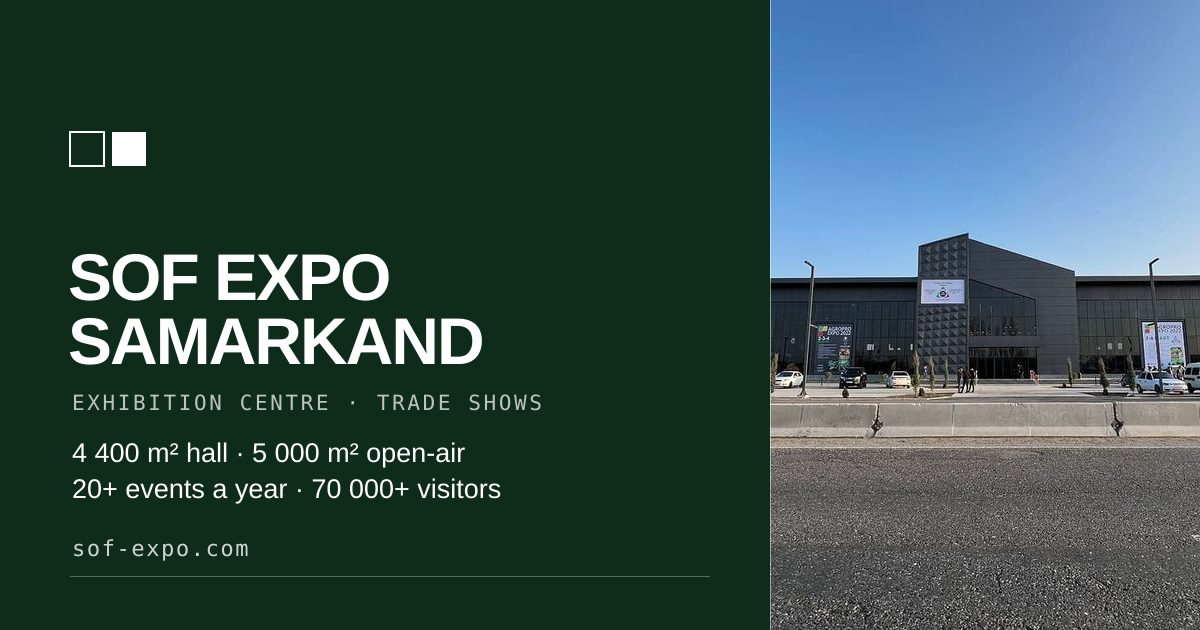
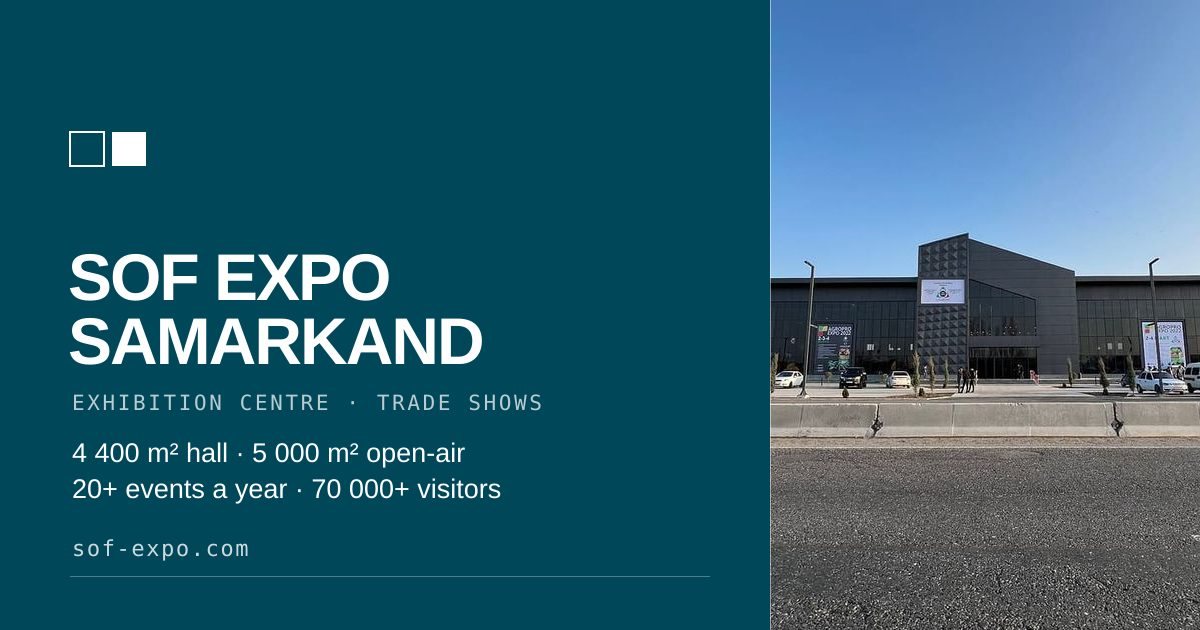
Site colours: the flag's azure as the main colour, not deep green
The visible colour of the site was still the deep green #123B25 (buttons, dark panels, footer,
ink), so it did not read as the flag of Uzbekistan. --evergreen is now the flag azure taken to
night #00475A (white 10.2:1), --evergreen-2 #005F73, ink #0B1C22, the light accent on dark
#8FDCEC, the pale tint #E3F4F8; theme-color, manifest and the default OG card follow. Green and
red stay as the flag uses them: bands and accents, red for booking.

Claude-Session: https://claude.ai/code/session_014SuRXsBkGZ1RbcHmoNMYPS

diff --git a/src/styles/global.css b/src/styles/global.css
@@ -41,28 +41,30 @@
   --paper: #ffffff; /* panels */
   --cream: #e4e4e4; /* the canvas between panels */
   --cream-2: #f2f2f2; /* secondary panels, chips, list rows */
-  --ink: #0b1f14; /* green-black ink, 17.2:1 on white */
+  --ink: #0b1c22; /* azure-black ink, 17.5:1 on white */
   /* the design's #6B6B6B is 4.2:1 on the canvas; #5E5E5E keeps AA on canvas, white and #F2F2F2 */
   --ink-60: #5e5e5e;
   --ink-40: #5e5e5e;
   --line: #dcdcdc;
   --line-strong: #cfcfcf;
-  /* "evergreen" is the centre's deep brand green: ink panels, footer, primary buttons */
-  --evergreen: #123b25; /* white on it: 12.5:1 */
-  --evergreen-2: #1b4d2e; /* white on it: 9.8:1 */
+  /* "evergreen" is the centre's deep brand colour: ink panels, footer, primary buttons. 2026-10-15:
+     the flag's azure taken to night (it was a deep green, so the site read green, not like the
+     flag); green and red stay as the flag uses them — bands and accents (docs/19 §7) */
+  --evergreen: #00475a; /* white on it: 10.2:1 */
+  --evergreen-2: #005f73; /* white on it: 7.3:1 */
   --moss: #00738c; /* the flag's azure #0099B5 at full saturation, one step deeper for AA text: 5.5:1 on white, 4.9:1 on the canvas (the raw azure is used only graphically). It was #21687E, a greyed petrol that read as nobody's blue. */
   --sage: #f2f2f2;
   /* the logo red is for the primary booking CTA and "registration open" — never under long text */
   --accent: #ce1126; /* the flag's red; white on it: 5.6:1 */
   --accent-ink: #ffffff; /* what sits ON --accent; shows override it with their own ink */
-  --accent-soft: #eef4ee; /* a whisper of the brand green on light grounds (logo tiles) */
+  --accent-soft: #e3f4f8; /* a whisper of the flag azure on light grounds (logo tiles) */
   --ornament: #f2f2f2;
   --brand-mark: var(--evergreen);
   /* the old brass accent rules become the brand blue */
   --gold: #00738c;
   --gold-ink: #006e86; /* small azure text on light grounds, 5.9:1 on white / 5.3:1 on the canvas; also a fill with white text */
-  /* the light accent ON dark grounds: light green of the logo family, 12:1 on evergreen */
-  --gold-soft: #b7e3b0;
+  /* the light accent ON dark grounds: the flag azure lightened, 6.6:1 on evergreen */
+  --gold-soft: #8fdcec;
   --danger: #c4320a;
   --success: #1f8a4c;
 

diff --git a/src/lib/labels.ts b/src/lib/labels.ts
@@ -36,7 +36,7 @@ const INDUSTRY_COLOR: Record<string, string> = {
   ecommerce: '#6e4a63',
   education: '#2f5d76',
   /* the centre's own note keeps the current deep brand green, not the retired evergreen */
-  company: '#123b25',
+  company: '#00475a',
   guide: '#4b5350',
   market: '#4b5350',
 };

diff --git a/docs/19-photos-and-polish-2026-10.md b/docs/19-photos-and-polish-2026-10.md
@@ -152,6 +152,12 @@ yaqinlashuvi edi; `--brand-stripe` va `--sx-*` endi bayroq qiymatlarida. Matn/ha
 qizili — bayroq qizili `#CE1126` (oq matn 5.6:1). Admin va kabinet: `#0063E4` ko'k va kislotali
 sariq `#F4FD10` o'rniga bayroq samoviysi (`#00738C`, qora yon panelda `#5CCFE3`).
 
+Ikkinchi qadam (o'sha kun): saytda eng ko'p ko'rinadigan rang hali ham to'q yashil `#123B25` edi
+(tugmalar, to'q bloklar, footer) — sayt bayroqqa o'xshamasdi. Endi `--evergreen` = bayroq samoviysining
+tungi tusi `#00475A` (oq matn 10.2:1), `--evergreen-2` `#005F73`, siyoh `--ink` `#0B1C22` (ko'k-qora),
+to'q fondagi och urg'u `--gold-soft` `#8FDCEC`, `--accent-soft` `#E3F4F8`; `theme-color`, manifest va
+OG kartochka ham shu rangda. Yashil va qizil bayroqdagidek: chiziqlar va urg'u (qizil — bron tugmasi).
+
 **FOODERA naqshi.** FOODERA'ning naqshi uning badge'ida: tilla islimiy jingalak gullar halqasi.
 `images/brand-masters/foodera-naqsh-ring.png` — badge'dan kesilgan (yulduz va yozuv olib
 tashlangan) halqa; `public/brand/foodera/naqsh.webp` maska sifatida: hero'ning o'ng yuqori
